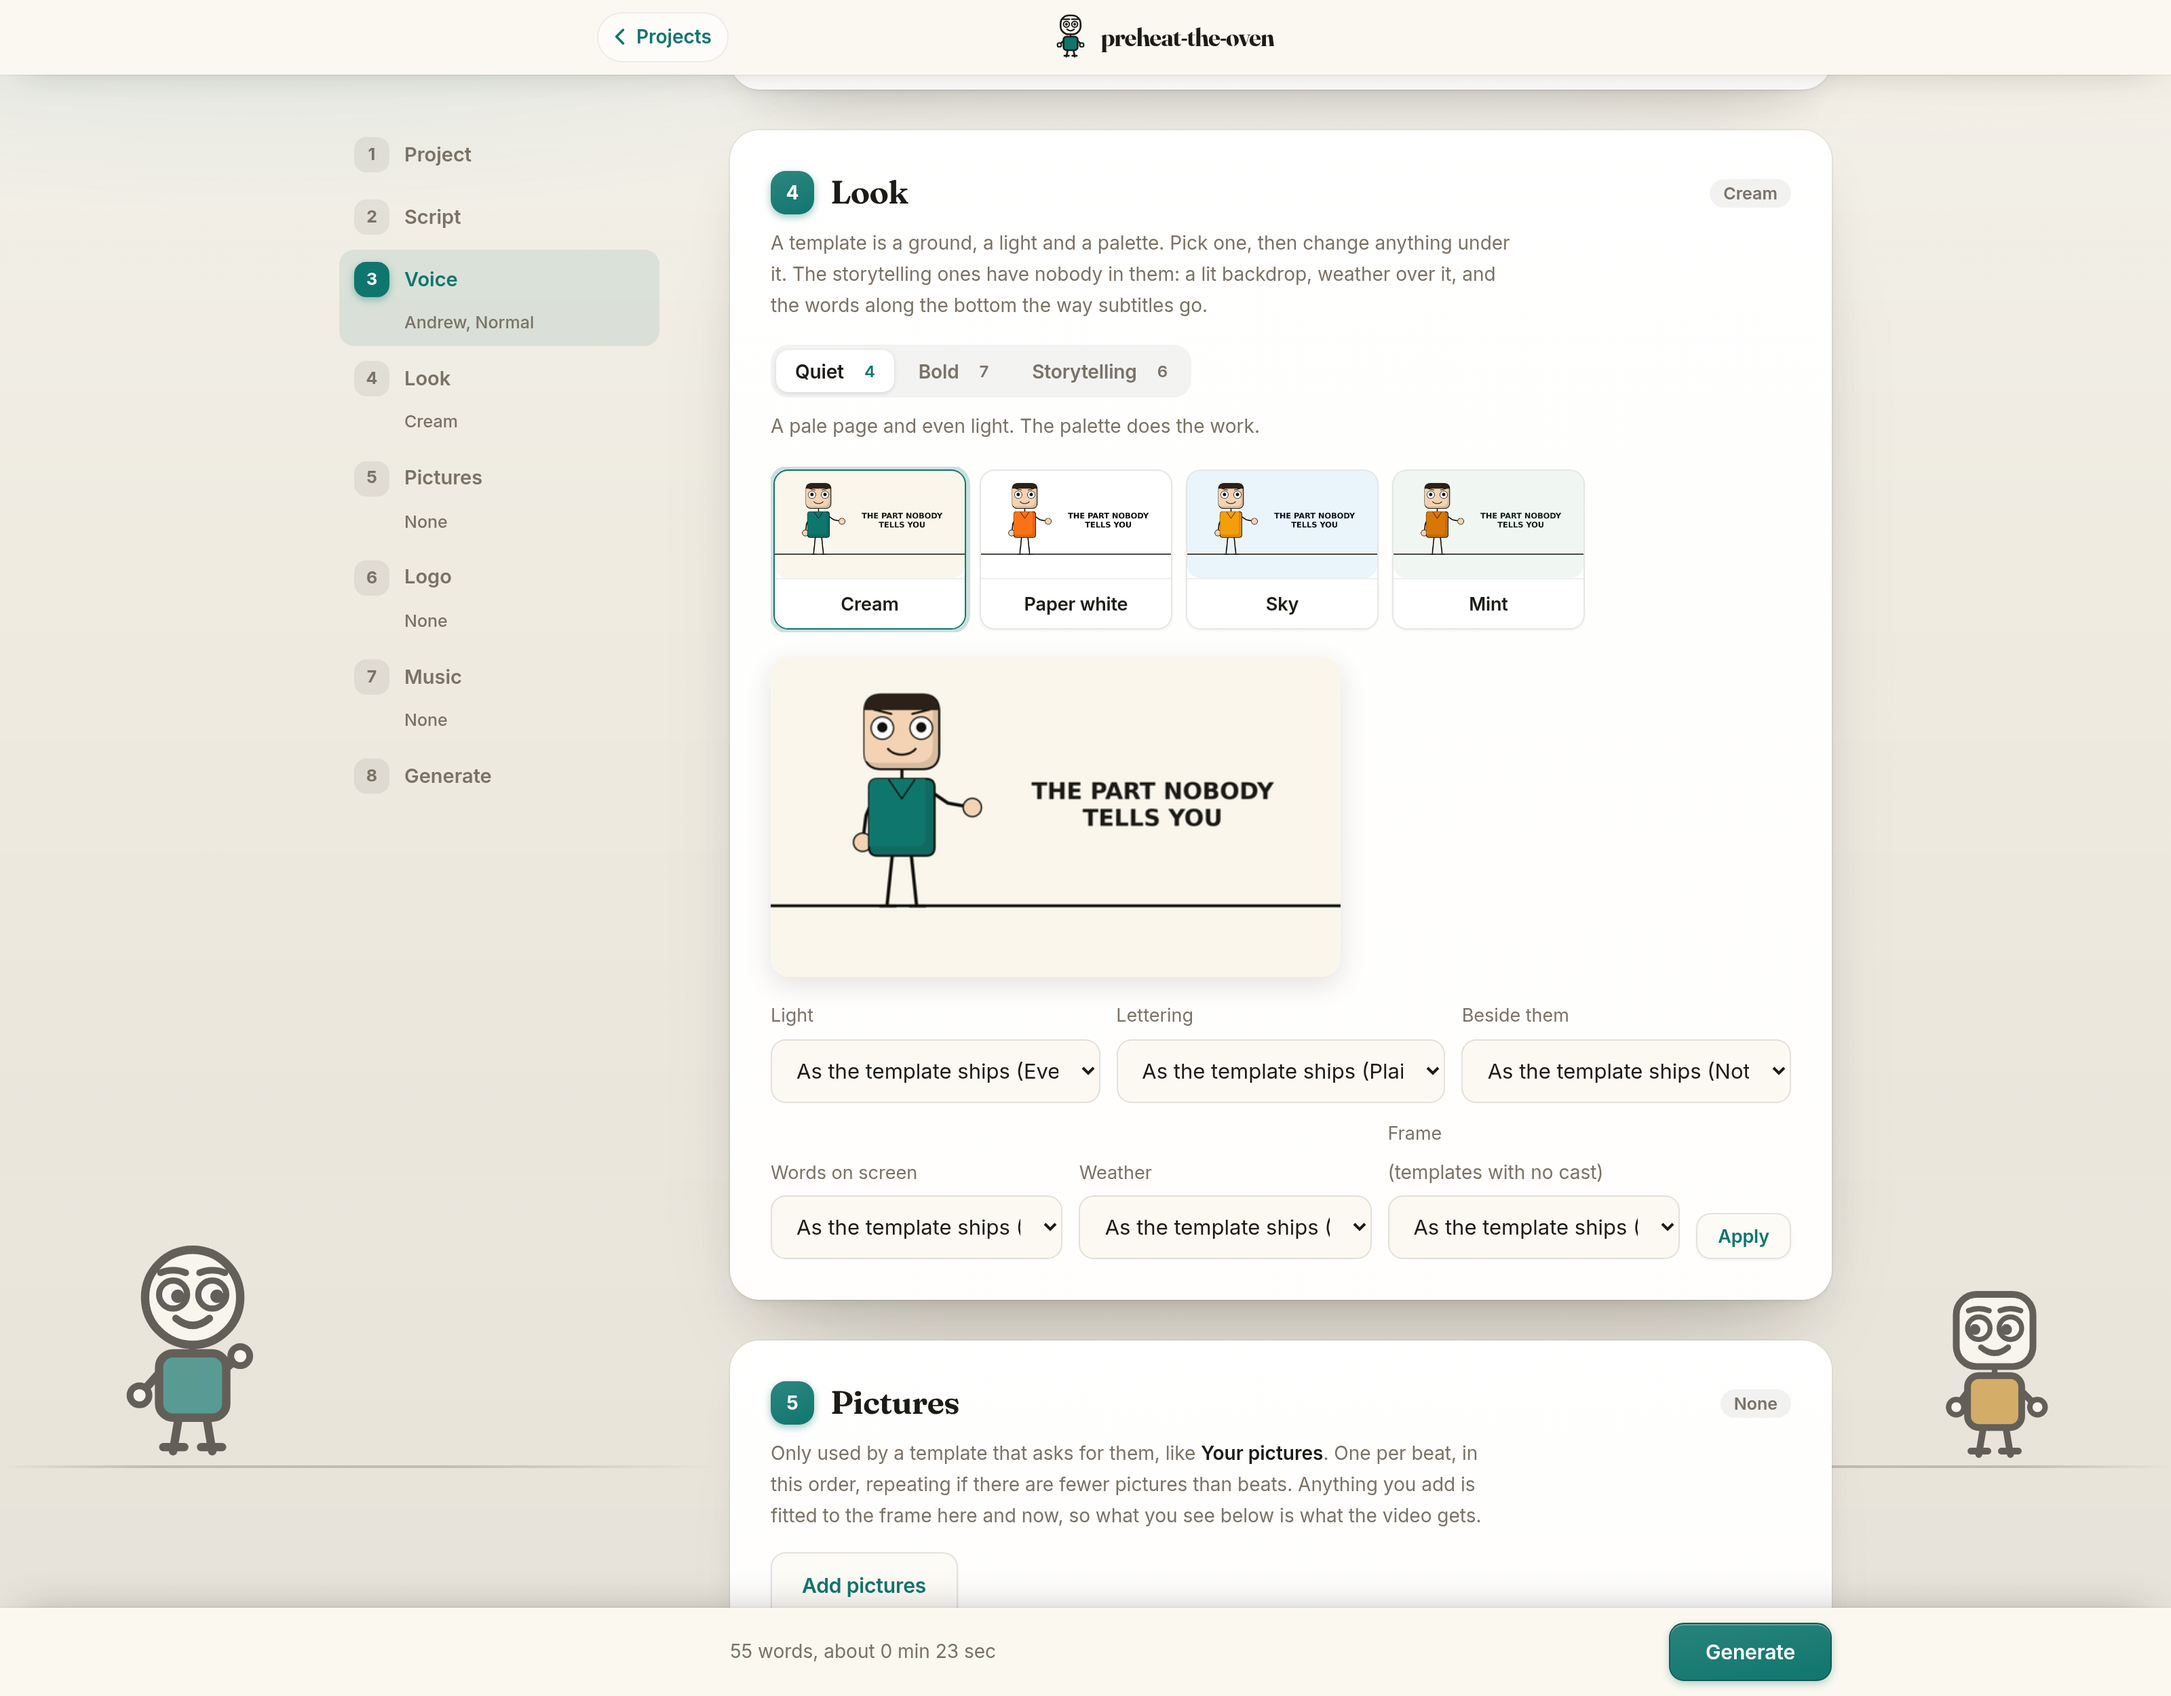
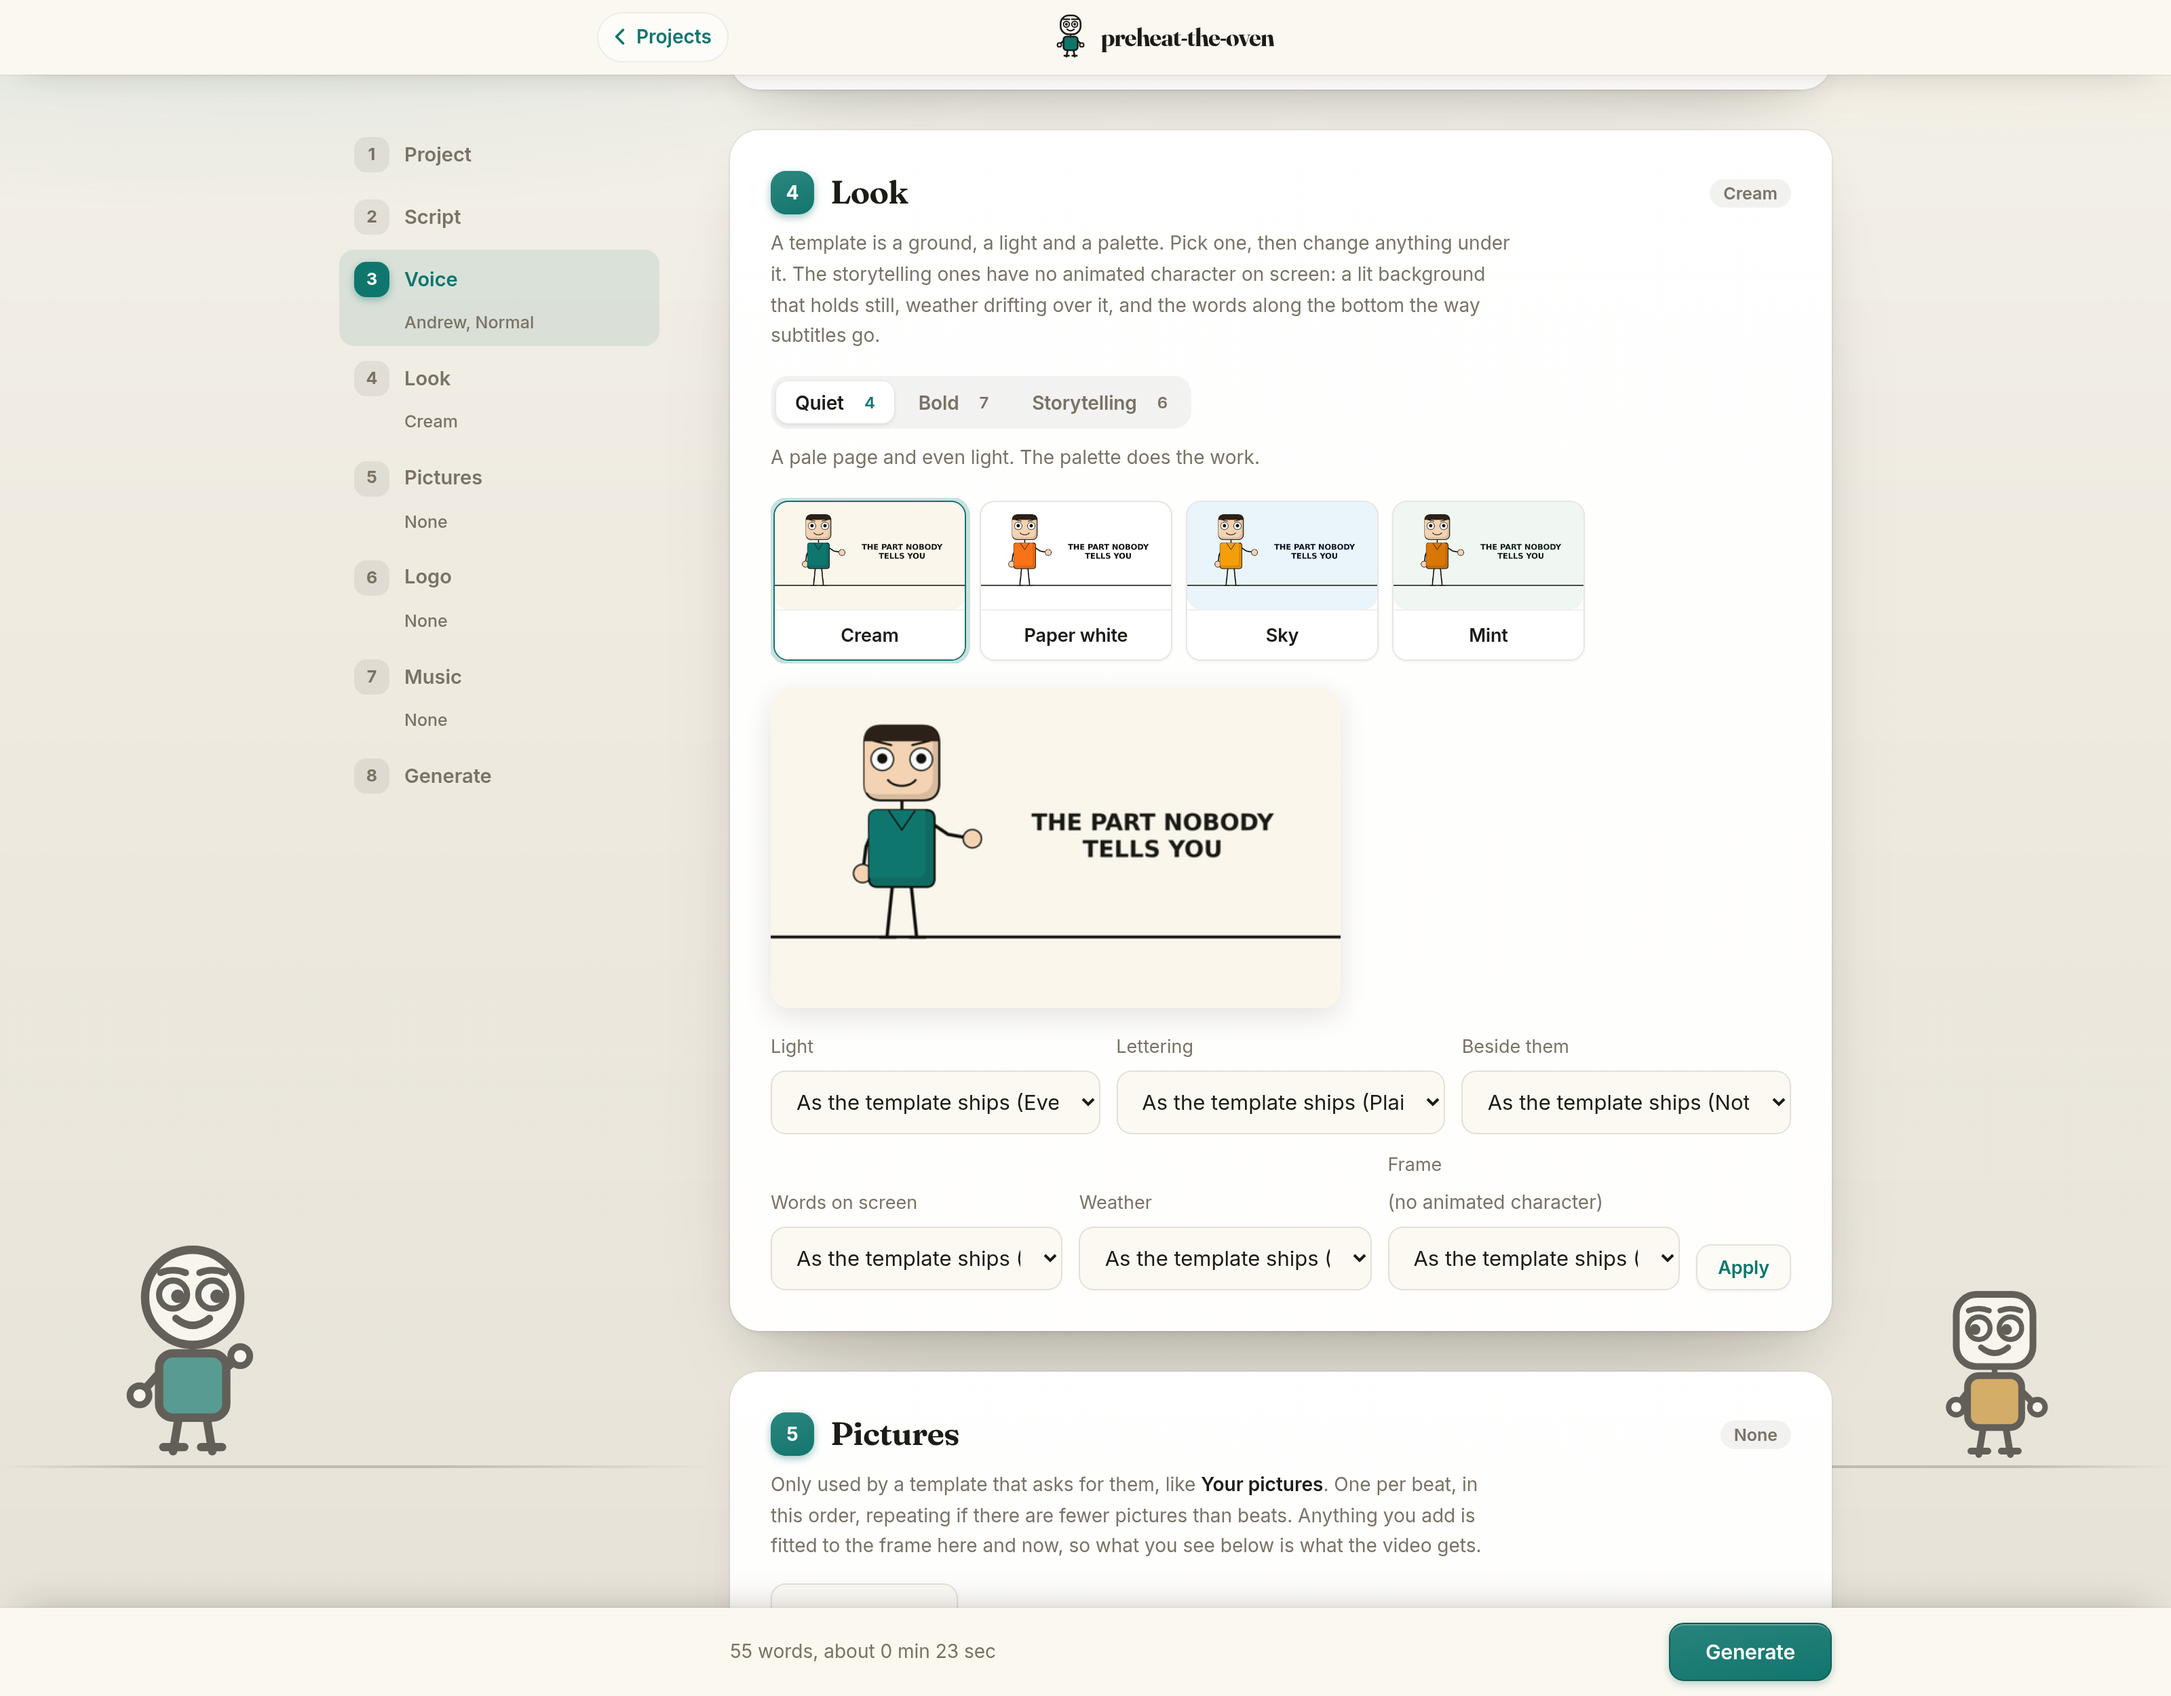
Say what is missing from a storytelling frame, not that nobody is in it
"Nobody in it" does not tell you anything. It was in the Look step, the
family blurb, the Frame label and the README, and in every one of them the
actual fact is that there is no drawn character blinking and moving its
mouth: a background that holds still, weather drifting over it, and the
words along the bottom. That is what they all say now.

diff --git a/app/templates/project.html b/app/templates/project.html
@@ -118,9 +118,10 @@
   <section class="step" id="look">
     <h2><span class="stepnum">4</span>Look<span class="stepval" id="chip-look"></span></h2>
     <p class="hint">A template is a ground, a light and a palette. Pick one,
-      then change anything under it. The storytelling ones have nobody in
-      them: a lit backdrop, weather over it, and the words along the bottom
-      the way subtitles go.</p>
+      then change anything under it. The storytelling ones have no animated
+      character on screen: a lit background that holds still, weather
+      drifting over it, and the words along the bottom the way subtitles
+      go.</p>
     {# Seventeen templates will not fit on a screen and would not be readable
        if they did, so one family is shown at a time. The tabs are a view of
        the same list, not a second choice: picking a template still posts the
@@ -198,7 +199,7 @@
           {% endfor %}
         </select>
       </label>
-      <label>Frame<small> (templates with no cast)</small>
+      <label>Frame<small> (no animated character)</small>
         <select name="composition">
           <option value="">As the template ships ({{ compositions[themes[theme.name].composition] }})</option>
           {% for key, label in compositions.items() %}

diff --git a/app/themes.py b/app/themes.py
@@ -29,10 +29,10 @@ class Theme:
     lettering: str = "plain"   # how headline type is treated
     dressing: str = "none"     # one object standing beside the speaker
     captions: str = "headline"  # where the words go, if anywhere
-    layout: str = "presenter"   # "presenter", "story" (no cast) or
+    layout: str = "presenter"   # "presenter", "story" (no character) or
                                 # "photo" (pictures you brought)
     effect: str = "none"        # particles moving over the whole frame
-    composition: str = "bare"   # the shape of a frame with no cast in it
+    composition: str = "bare"   # how a frame is laid out with no character
     family: str = "quiet"       # how the picker groups it
     blurb: str = ""         # one line describing the look, shown on the page
 
@@ -252,10 +252,9 @@ DRESSING_LABELS = {"none": "Nothing", "board": "A board on the wall",
 # grouped and one group is shown at a time. The grouping is by what the
 # template is for rather than by colour: a pale page with a headline and a
 # dark room with rain in it are different jobs, not different palettes.
-# The shape of a frame with no cast in it. A picture in the middle is what
-# was asked for, so most of these are frames for one; the type led shapes are
-# there for a template that is about what is said rather than what it is
-# about, and for a line that named nothing the vocabulary knows.
+# How a frame is laid out when there is no animated character in it. "bare"
+# leaves the middle empty and is what every storytelling template ships with;
+# the rest build the frame out of the headline, for a title card.
 COMPOSITION_LABELS = {"bare": "Nothing, just the background",
                       "card": "The words, mounted on a card",
                       "band": "The words across a solid bar",
@@ -267,8 +266,8 @@ FAMILY_LABELS = {"quiet": "Quiet", "bold": "Bold", "story": "Storytelling"}
 FAMILY_BLURBS = {
     "quiet": "A pale page and even light. The palette does the work.",
     "bold": "A ground and a light of its own, with a presenter.",
-    "story": "No cast and nothing in the middle. A lit background, weather "
-             "over it, and the words along the bottom.",
+    "story": "No animated character. A lit background that holds still, "
+             "weather drifting over it, and the words along the bottom.",
 }
 
 

diff --git a/app/scenes.py b/app/scenes.py
@@ -275,8 +275,8 @@ def _presenter_content(fig, T, b, side):
 # ----------------------------------------------------------------------
 # STORY COMPOSITIONS
 #
-# A frame with no cast in it needs a shape of its own or every template is
-# the same template in a different colour. An icon in the middle was the
+# A frame with no animated character in it needs a shape of its own or every
+# template is the same template in a different colour. An icon in the middle was the
 # first and only one, and it has a second problem: whatever the icon happens
 # to be becomes what the template looks like, so a set of them all previewing
 # a banknote reads as six ways of making a video about money.
@@ -385,10 +385,12 @@ def _on(colour):
 
 
 def scene_story(fig, b, T):
-    """No figure at all: a lit ground, a composition, and the words.
+    """No animated character: a lit ground, a composition, and the words.
 
-    The drawn cast is what makes this look like an explainer. Plenty of what
-    people watch has nobody in it, and this is that shape.
+    The drawn figure, blinking and moving its mouth, is what makes a video
+    look like an explainer. Plenty of what people watch is a background that
+    holds still with the words running along the bottom, and this is that
+    shape.
     """
     shape = getattr(T, "composition", "bare")
     ax = _stage(fig, b, T, GROUND_Y, 0.5, empty=shape == "bare")
@@ -426,8 +428,8 @@ def scene_photo(fig, b, T):
 def scene_presenter(fig, b, T):
     """One figure held in place, the content beside them changing.
 
-    A template can say it has no cast, in which case an undirected beat is
-    drawn as a story frame instead. Doing the swap here rather than in the
+    A template can say it wants no animated character, in which case an
+    undirected beat is drawn as a story frame instead. Doing the swap here rather than in the
     parser keeps the choice with the look, where it belongs: the same script
     renders with a presenter or without one depending only on the template.
     """

diff --git a/tests/unit/test_themes.py b/tests/unit/test_themes.py
@@ -141,9 +141,10 @@ def test_the_words_can_be_moved_off_the_middle_of_the_frame():
     assert resolve("cream", captions="middle").captions == "headline"
 
 
-def test_a_template_can_have_no_cast():
-    """Plenty of narrated video has nobody in it. The swap is a property of
-    the look, so the same script renders both ways."""
+def test_a_template_can_drop_the_animated_character():
+    """Plenty of narrated video is a background that holds still with the
+    words along the bottom. The swap is a property of the look, so the same
+    script renders both ways."""
     assert THEMES["nightfall"].layout == "story"
     for name in ("cream", "paper", "sky", "mint"):
         assert THEMES[name].layout == "presenter"

diff --git a/tests/unit/test_engine.py b/tests/unit/test_engine.py
@@ -116,9 +116,9 @@ def test_the_part_key_covers_where_it_sits_in_the_music():
 
 
 def test_a_storytelling_template_draws_no_figure(tmp_path):
-    """The whole point of the layout: a frame with nobody in it. Skin is the
-    one colour only a character is drawn in, so counting it answers this
-    without caring how the figure is built."""
+    """The whole point of the layout: a frame with no animated character in
+    it. Skin is the one colour only a character is drawn in, so counting it
+    answers this without caring how the figure is built."""
     import numpy as np
     from PIL import Image
     from app import characters as ch

diff --git a/README.md b/README.md
@@ -78,9 +78,9 @@ still out of a video it renders, so they cannot drift from what the app does.*
 
 ![A still from a finished video](docs/a-still.png)
 
-*A frame from a finished video in the Hearth template, which is a
-storytelling one: nobody in it, a warm dark room with embers drifting
-through, and the line being spoken along the bottom.*
+*A frame from a finished video in the Hearth template, one of the
+storytelling ones: no animated character, a warm dark room with embers
+drifting through it, and the line being spoken along the bottom.*
 
 ## Why this exists
 
@@ -183,15 +183,17 @@ Ledger is built for money, with a lit desk and a chart on the wall behind.
 Studio has a board on the wall, for teaching something.
 
 **Storytelling**, six: Nightfall, Downpour, Snowfall, Hearth, Attic and Your
-pictures. No drawn figure and nothing in the middle of the frame: a lit
-backdrop, the weather over it, and the subtitle along the bottom. Plenty of
-what people watch has nobody in it, and a script does not stop being a script
-because there is no presenter in front of it. Four of them run weather over the frame, which is a short loop of
-transparent frames laid on repeat, so a ten minute video costs one loop to
-render. Rain, snow, dust, embers, bokeh and stars, and every one is built so
-the particles travel a whole number of wraps across its length. Get that wrong
-and the loop jumps once a second, which is what five of the six did before the
-loop closure was measured rather than eyeballed.
+pictures. No animated character on screen: a lit background that holds still,
+the weather drifting over it, and the subtitle along the bottom. Plenty of
+what people watch is made exactly this way, and a script does not stop being
+a script because there is no drawn figure reading it out.
+
+Four of them run weather over the frame, which is a short loop of transparent
+frames laid on repeat, so a ten minute video costs one loop to render. Rain,
+snow, dust, embers, bokeh and stars, and every one is built so the particles
+travel a whole number of wraps across its length. Get that wrong and the loop
+jumps once a second, which is what five of the six did before the loop
+closure was measured rather than eyeballed.
 
 Your pictures is the one that takes images you supply. Drop them into the
 Pictures step and they are handed out to the beats in order, fitted to the
